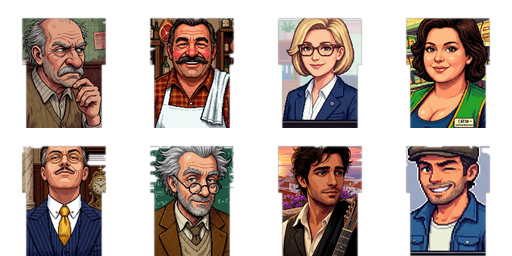
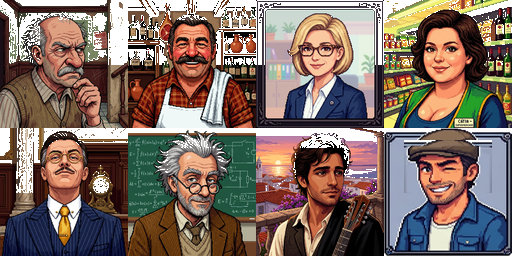
feat(scumm): cenarios interiores 16-bit para acampada e loja de roupa, restauracao de ines e eliminacao de bordas v6.4

diff --git a/index.html b/index.html
@@ -3044,7 +3044,7 @@ ctx.imageSmoothingEnabled = false;
 // ============================================================================
 // 16-BIT BITMAPPED RETRO ASSETS (STARDEW VALLEY / EASTWARD FIDELITY)
 // ============================================================================
-const ASSET_VER = '6.3';
+const ASSET_VER = '6.4';
 const boardImg = new Image();
 boardImg.src = `assets/board.png?v=${ASSET_VER}`;
 
@@ -3112,7 +3112,9 @@ const interiorImgs = {
     senhorio: new Image(),
     faculdade: new Image(),
     miradouro: new Image(),
-    casa: new Image()
+    casa: new Image(),
+    acampada: new Image(),
+    loja_roupa: new Image()
 };
 interiorImgs.supermercado.src = `assets/interiors/supermercado.png?v=${ASSET_VER}`;
 interiorImgs.tasca.src = `assets/interiors/tasca.png?v=${ASSET_VER}`;
@@ -3122,6 +3124,8 @@ interiorImgs.senhorio.src = `assets/interiors/senhorio.png?v=${ASSET_VER}`;
 interiorImgs.faculdade.src = `assets/interiors/faculdade.png?v=${ASSET_VER}`;
 interiorImgs.miradouro.src = `assets/interiors/miradouro.png?v=${ASSET_VER}`;
 interiorImgs.casa.src = `assets/interiors/casa.png?v=${ASSET_VER}`;
+interiorImgs.acampada.src = `assets/interiors/acampada.png?v=${ASSET_VER}`;
+interiorImgs.loja_roupa.src = `assets/interiors/loja_roupa.png?v=${ASSET_VER}`;
 
 // Pre-renderização da Calçada com Ondas de Basalto do Rossio
 const calcadaCanvas = document.createElement('canvas');
